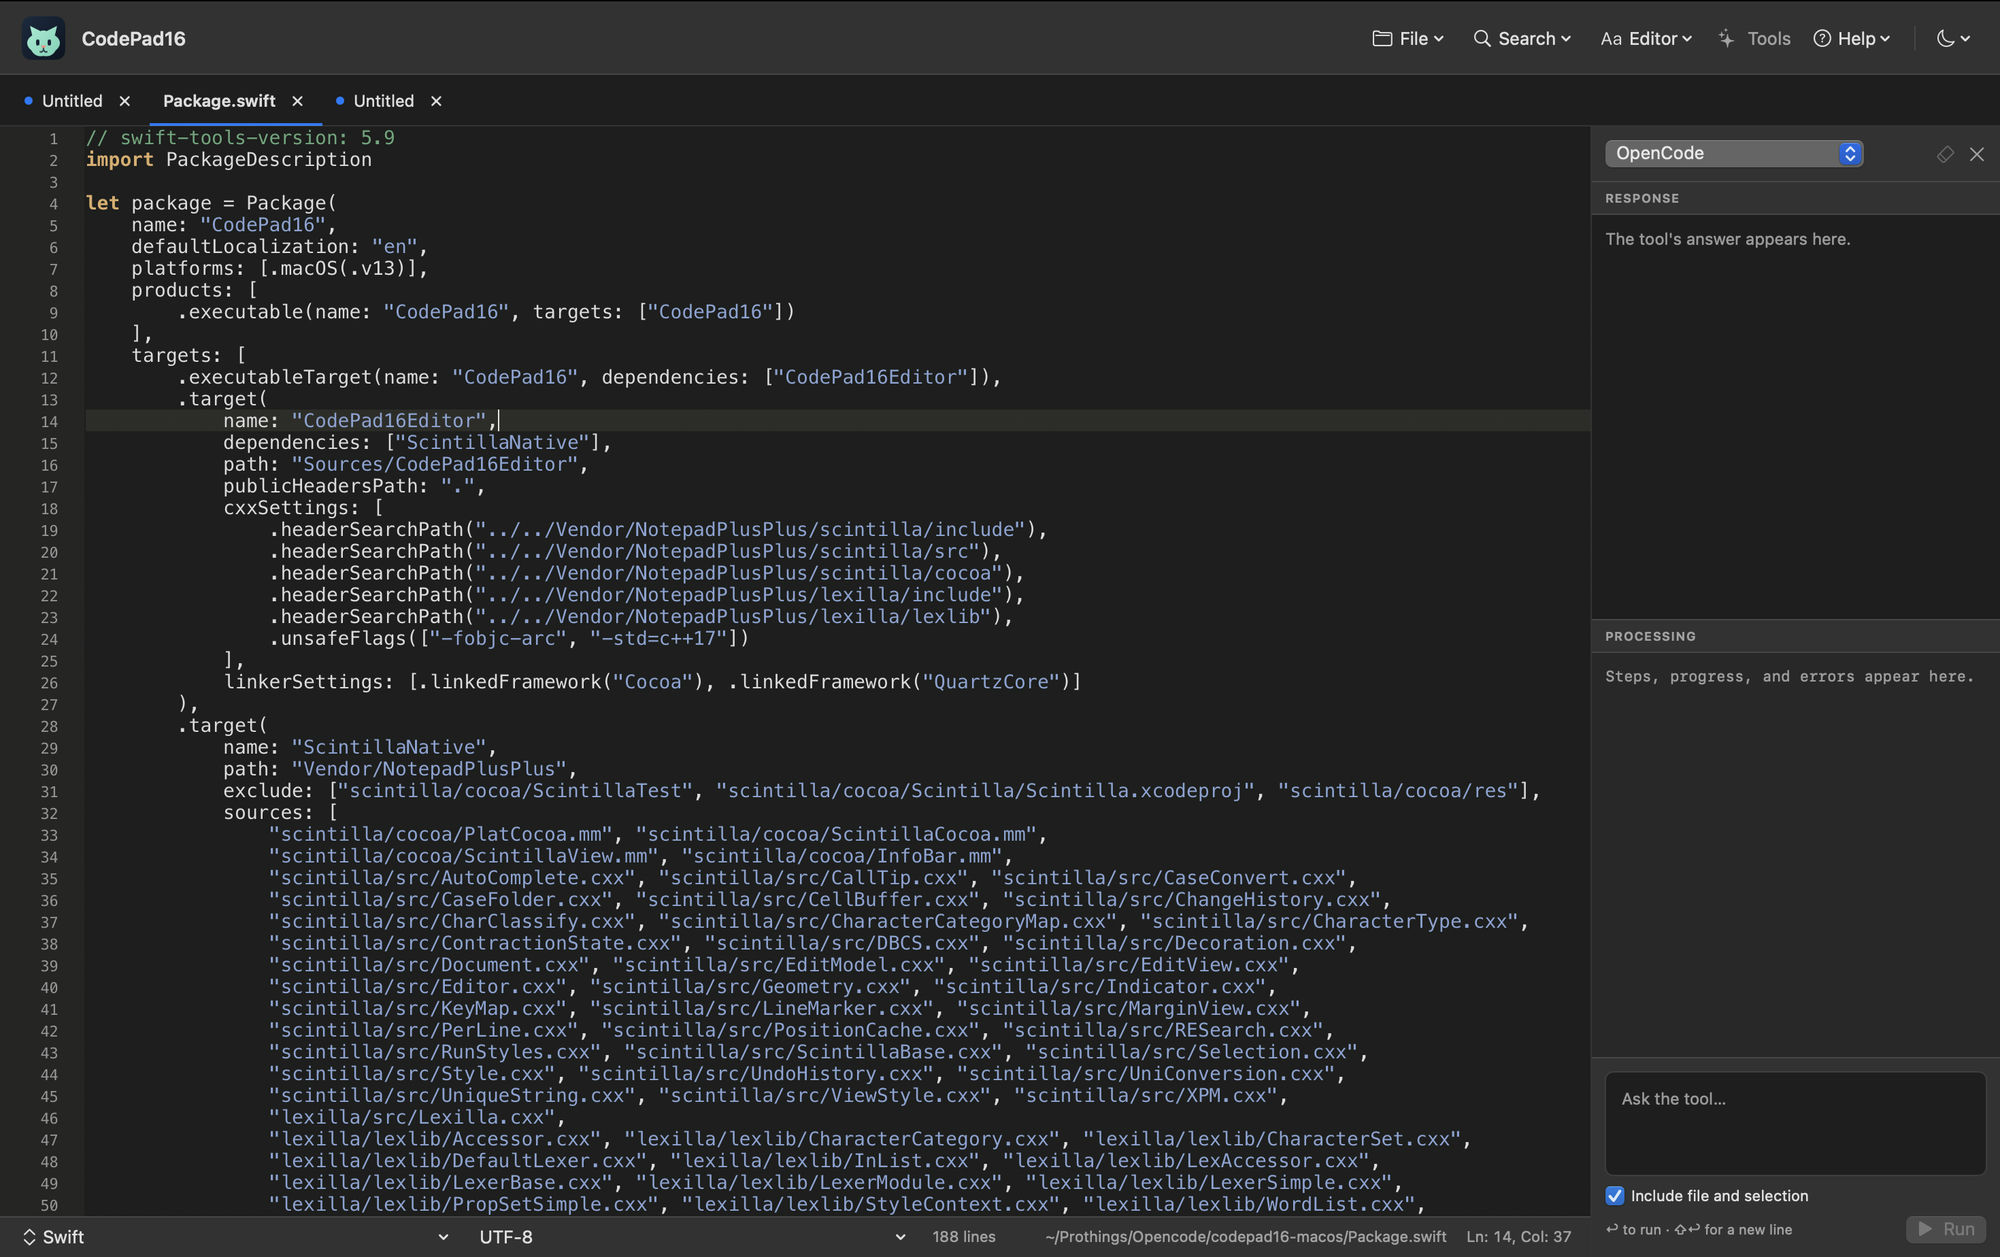
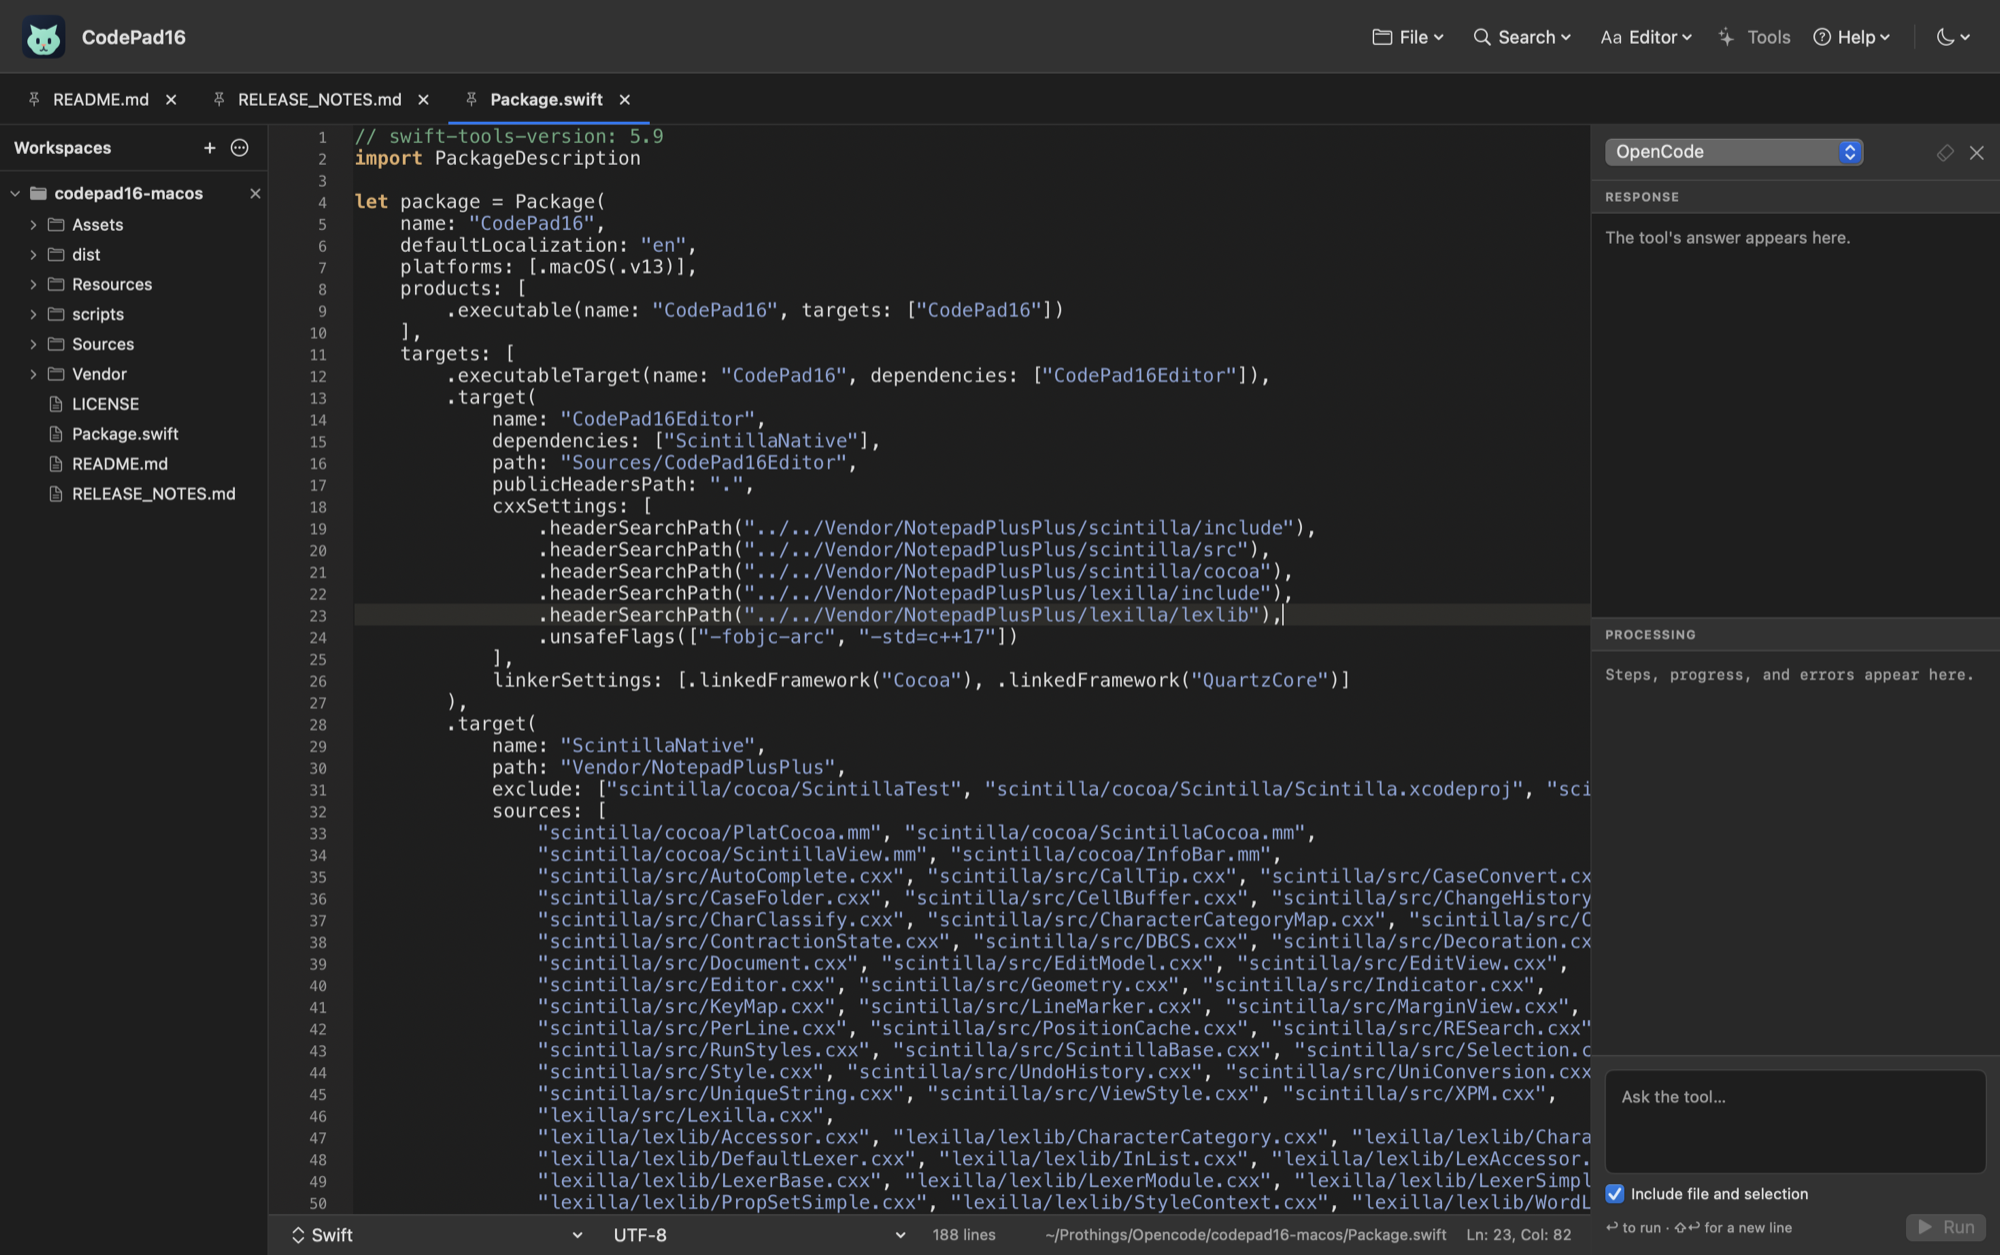
Refresh the README preview
Show the workspace sidebar and the new tab controls in the screenshot and
describe them in the image alt text.

diff --git a/README.md b/README.md
@@ -17,7 +17,7 @@ A small, native macOS text and code editor prototype for Apple Silicon. It is an
 
 Updates installed from **Check for Updates** inside CodePad16 do not trigger this prompt.
 
-![CodePad16 for macOS in dark mode showing Package.swift open with syntax highlighting, a line-number gutter, the File, Search, Editor, Tools, Help, and appearance header controls, and the tool runner panel](Assets/preview.png)
+![CodePad16 for macOS in dark mode showing Package.swift open with syntax highlighting, a workspace sidebar listing the project files, three tabs with pin buttons, a line-number gutter, the File, Search, Editor, Tools, Help, and appearance header controls, and the tool runner panel](Assets/preview.png)
 
 ## Current features
 
